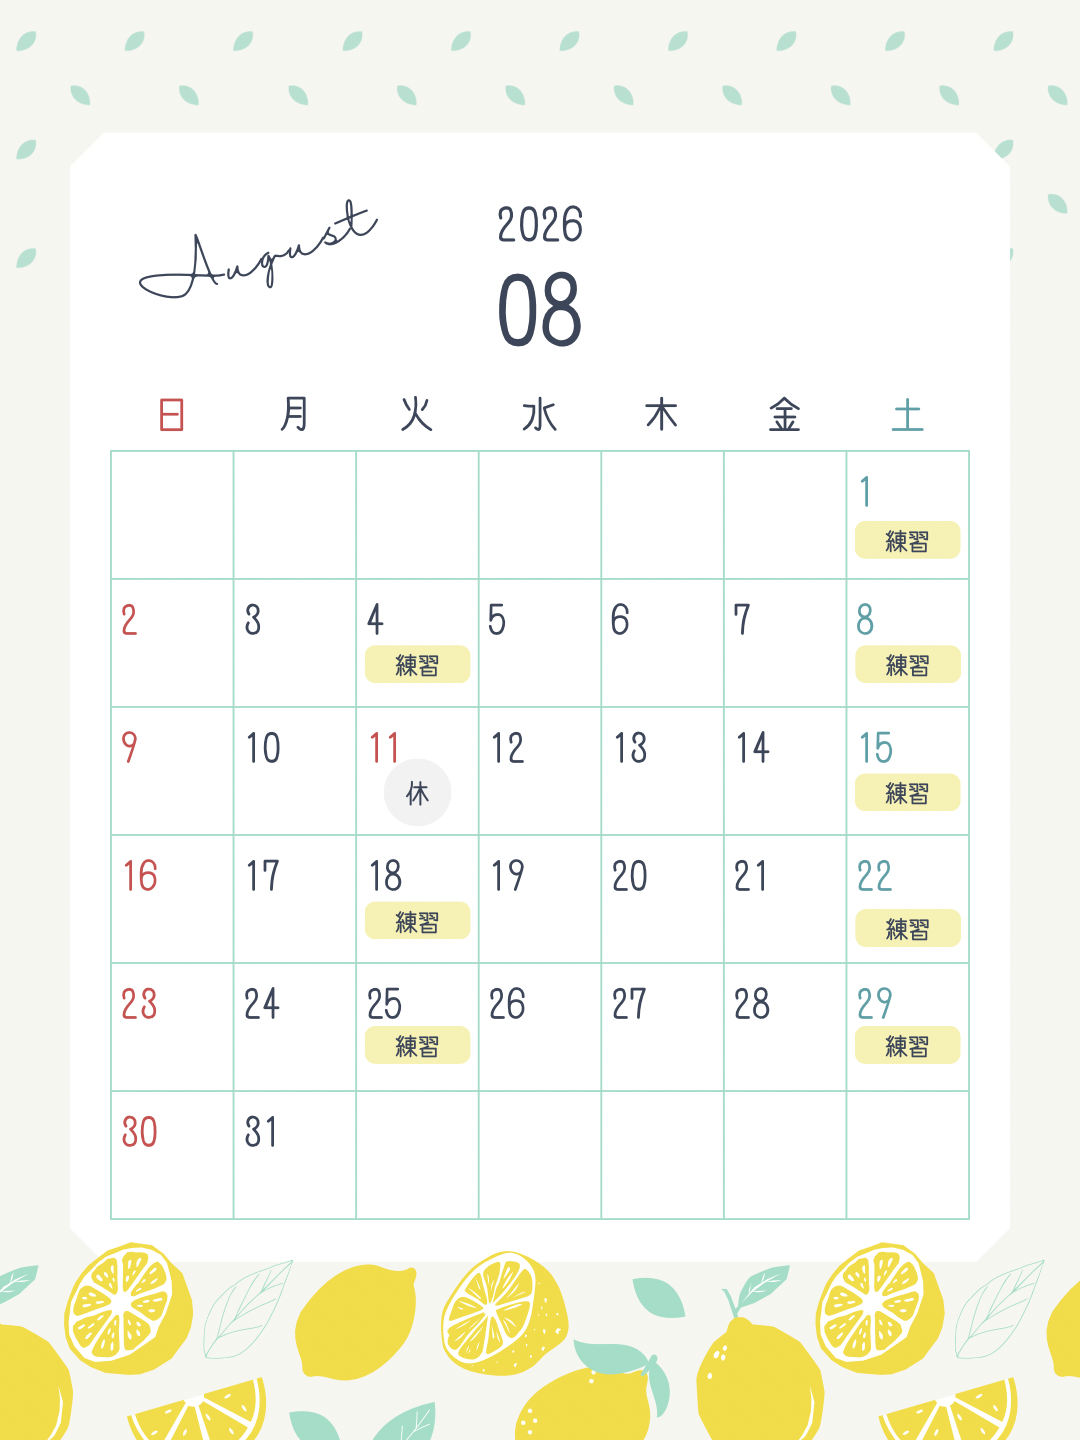
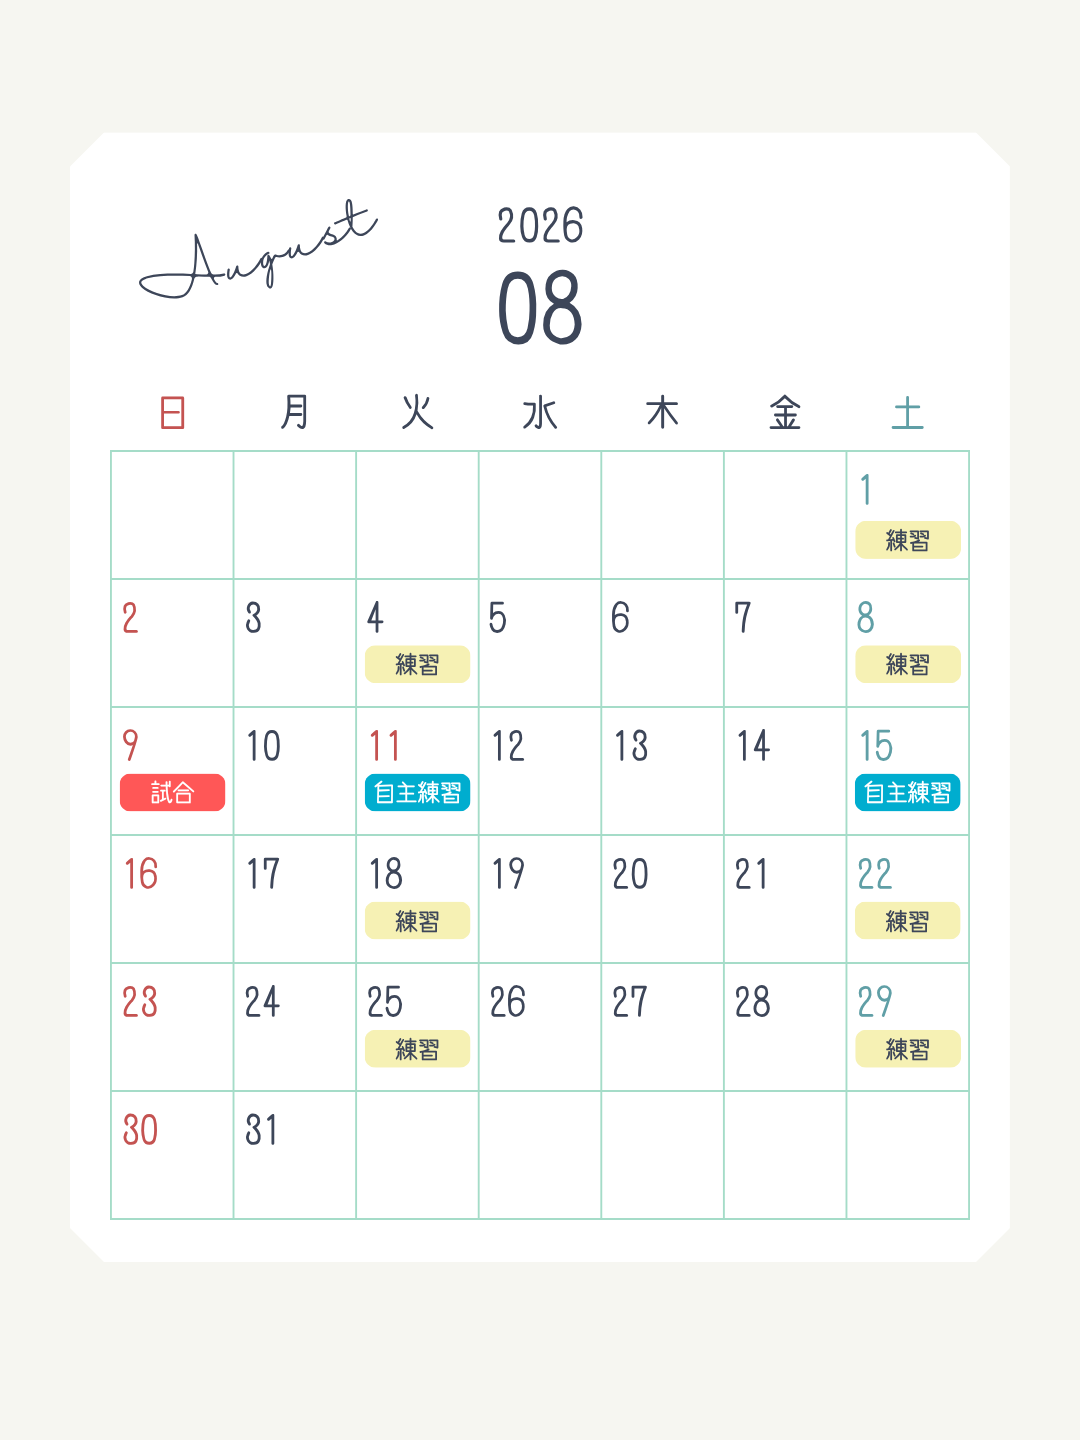
カレンダー更新

diff --git a/index.html b/index.html
@@ -323,11 +323,11 @@
       <script async src="https://app3.weatherwidget.org/js/?id=ww_97528ddec6ed3"></script>
       <div class="calendar-1 js-fadein">
         <span class="item-right js-fadein"></span>
-        <img src="/assets/image/7.webp" alt="ライナーズ7月カレンダー" width="380" height="450" class="js-fadein">
+        <img src="/assets/image/8.webp" alt="ライナーズ7月カレンダー" width="380" height="450" class="js-fadein">
       </div>
       <div class="calendar-2 js-fadein">
         <span class="item-left js-fadein"></span>
-        <img src="/assets/image/8.webp" alt="ライナーズ7月カレンダー" width="380" height="450" class="js-fadein">
+        <img src="/assets/image/9.webp" alt="ライナーズ7月カレンダー" width="380" height="450" class="js-fadein">
       </div>
     </section>
 
